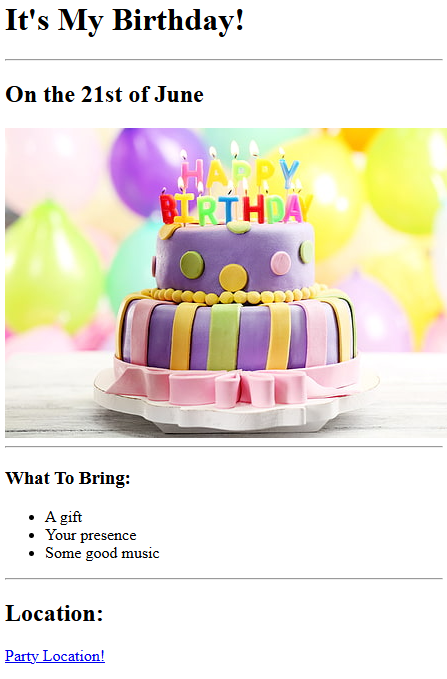
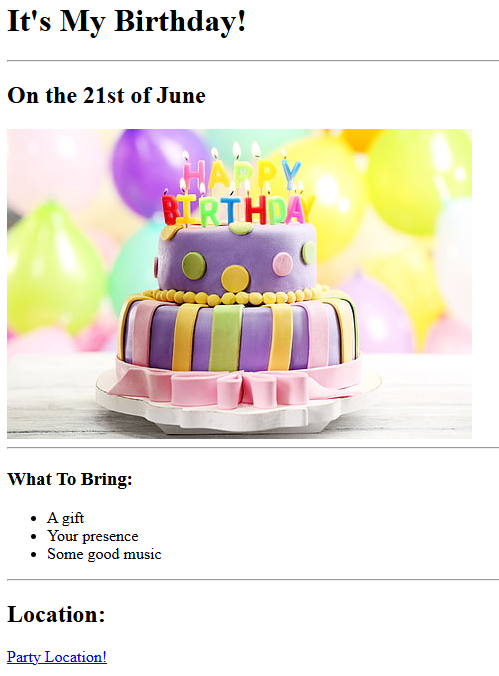
Updated Minor bugs
- Updated birthday card, last photo link was breaking
- Updated my Resume, hobbies and other spelling

diff --git a/public/about.html b/public/about.html
@@ -5,16 +5,17 @@
 </p>
 
 <p>
-  I studied at the Universitty of North texas and obtained my Bachelors of science in Computer Science.
+  I studied at the Universitty of North texas and obtained my Bachelors of Science in Computer Science. 
+  I have been working in the software industry for over 7 years.
 </p>
 
 <p>
-  I am currenlty working at Brock Solutions. I am Software Project Lead.
-  I am the lead of the upper level siftware team. I manage the schedule and make sure that we are on time with tasks.
-  I lead junior engineers, set their schedules, assign tasks, and guide them. I am the point of contact with costmers when it comes
-  training them, answering questions about inqueries and other software work.
+  I am currenlty work at Brock Solutions. I am a software project lead. I am the lead of the upper level software team.
+  I manage the schedule and make sure that we are on time with tasks. I lead the team in daily standups and make sure that we are on track with our tasks.
+  I also help with code reviews and make sure that the code is up to standard.
+  I am the main point of contact for the client and I am responsible for making sure that the client is happy with our work.
 </p>
 <p>
-  I am also part of the Sales team. I help with new software inqueries and help the Sales team come with a reasonable quote and times
-  tasks will take. 
+  I am also part of the Sales team. I help with the sales process and make sure that we are on track with our sales goals.
+  I also help with the sales presentations and make sure that we are presenting our work in the best possible way.
 </p>

diff --git a/public/resume.html b/public/resume.html
@@ -9,8 +9,8 @@
     <h1>Steven Montes</h1>
     <h2>Summary</h2>
     <p>
-        I am a Project software lead at Brock Solutions. Work with mutiple teams to create and deploy top grade systems. I am the lead for such 
-        projects on the softare side.<br>
+        I am a Project software lead at Brock Solutions. Work with multiple teams to create and deploy top grade systems. I am the lead for such 
+        projects on the software side.<br>
         I also am part of the Sales Team, work with multiple teams and leads to give the customers time and money worth estimates.
     </p>
     <hr/>
@@ -67,10 +67,12 @@
     </h4>
     <ul>
         <li>
-            Work with various teams to find out project scope and work to create accurate and just estimates for customes.
+            Work with various teams to create a reasonable quote and time frame for the customer. I work with the software team to figure out if 
+            the scope of work is possible and if it is not, I work with the customer to figure out what is possible.
         </li>
         <li>
-            Talk to customers to figure out scope of work wanted and if applicable for the system.
+            I guide the customer through the process of what is possible and what is not. I also work with the customer to figure out what is the
+            best solution for their needs.
         </li>
     </ul>
     <hr/>

diff --git a/public/hobbies.html b/public/hobbies.html
@@ -10,16 +10,15 @@
     <ul>
         <li>
             <strong>Physical Activities:</strong><br>
-            I am always up for sports or a quick jog. I try to stay fit and enjoy being outside.
+            Physical activities are a big part of my life. I enjoy hiking, running, and playing soccer. I also like to go to the gym and lift weights.
         </li>
         <li>
             <strong>Art:</strong><br>
-            I love to paint, many of my paintings are hanging in my office. I am no professional but
-            but I have been told that I am good.
+            I love to paint, many of my paintings are displayed in my home. I also enjoy visiting art galleries and museums.
         </li>
         <li>
             <strong>Music:</strong><br>
-            I like to play the guitar, I am still an ameture but that will not stop me.
+            I love music, I play the guitar on occasion and I have a small collection of vinyl records.
         </li>
     </ul>
 </body>
